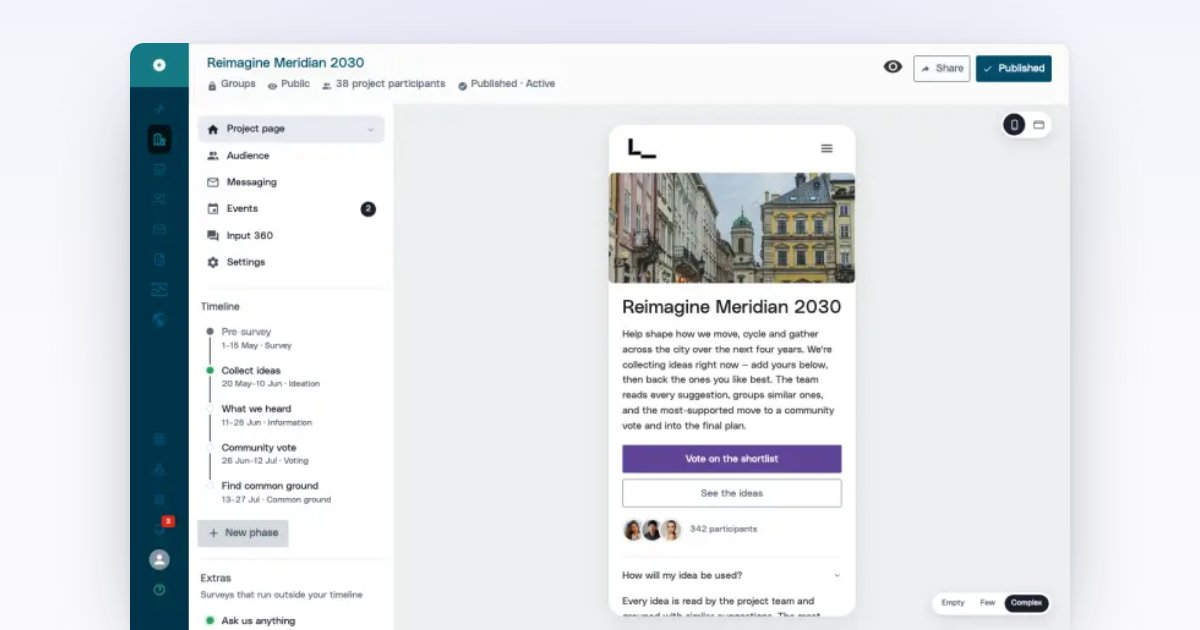
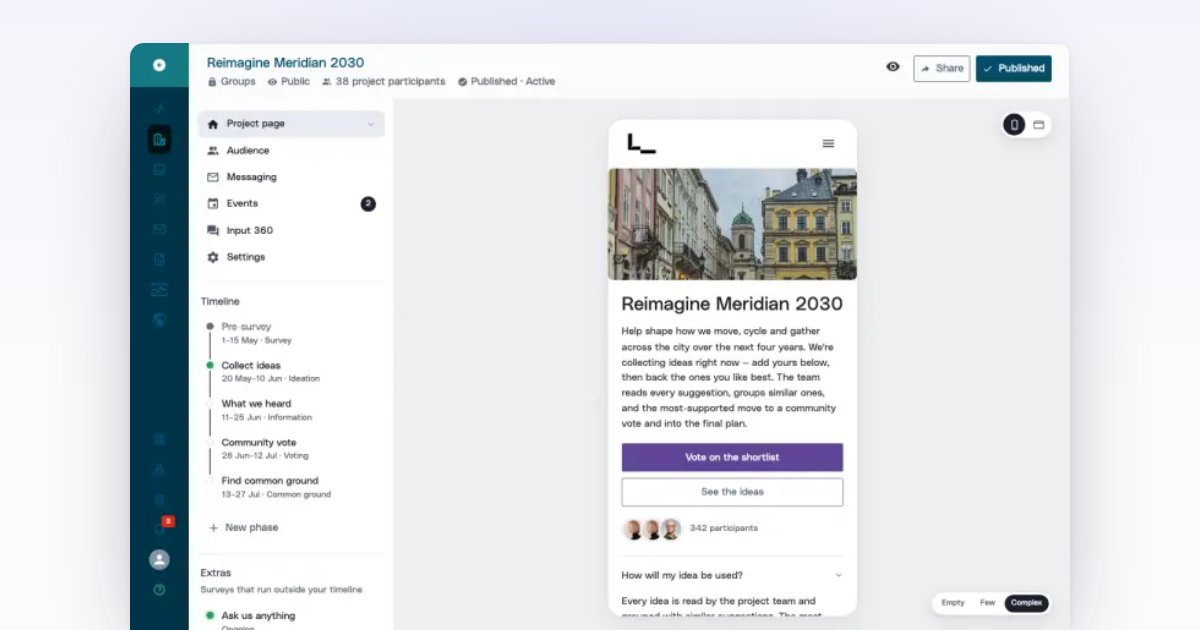
editor-builder-v3: muted New phase/New survey buttons in Few & Complex too
Match the empty state — every sidebar New phase / New survey button now uses the
quiet/transparent muted treatment across all content states.

diff --git a/parallel-participation/prototypes/parallel-editor-builder-v3/index.html b/parallel-participation/prototypes/parallel-editor-builder-v3/index.html
@@ -2060,7 +2060,7 @@
               </div>
             </div>
           </div>
-          <button class="sec-add" onclick="setView('add-phase')">
+          <button class="sec-add muted" onclick="setView('add-phase')">
             <span class="sec-add-ic" data-gv-icon="plus" aria-hidden="true"></span>
             New phase
           </button>
@@ -4050,7 +4050,7 @@
   }
   function renderComplexExtras(n) {
     const head = `<hr class="panel-divider" /><div class="sec-head">Extras</div><div class="sec-sub">Surveys that run outside your timeline</div>`;
-    const add = `<button class="sec-add" onclick="setView('add-survey')"><svg class="nav-icon" viewBox="0 0 24 24"><line x1="12" y1="5" x2="12" y2="19"/><line x1="5" y1="12" x2="19" y2="12"/></svg>New survey</button>`;
+    const add = `<button class="sec-add muted" onclick="setView('add-survey')"><svg class="nav-icon" viewBox="0 0 24 24"><line x1="12" y1="5" x2="12" y2="19"/><line x1="5" y1="12" x2="19" y2="12"/></svg>New survey</button>`;
     const askus  = hsRow({ phase:'askus',  dot:'live',     name:'Ask us anything',     dates:'Ongoing' });
     const market = hsRow({ phase:'',        dot:'upcoming', name:'Market-day poll',      dates:'15–17 Aug' });
     const kiosk  = hsRow({ phase:'',        dot:'completed',name:'Pop-up kiosk survey',  dates:'2–4 May', past:true });
@@ -4247,7 +4247,7 @@
             </div>
           </div>
         </div>
-        <button class="sec-add" onclick="setView('add-phase')">
+        <button class="sec-add muted" onclick="setView('add-phase')">
           <svg class="nav-icon" viewBox="0 0 24 24"><line x1="12" y1="5" x2="12" y2="19"/><line x1="5" y1="12" x2="19" y2="12"/></svg>
           New phase
         </button>
@@ -4264,7 +4264,7 @@
             <div class="phase-dates">Ongoing</div>
           </div>
         </div>
-        <button class="sec-add" onclick="setView('add-survey')">
+        <button class="sec-add muted" onclick="setView('add-survey')">
           <svg class="nav-icon" viewBox="0 0 24 24"><line x1="12" y1="5" x2="12" y2="19"/><line x1="5" y1="12" x2="19" y2="12"/></svg>
           New survey
         </button>
@@ -4292,7 +4292,7 @@
             <div class="flex-1 min-w-0"><div class="phase-name">Find common ground</div>
               <div class="phase-dates">13–27 Jul · Common ground</div></div></div>
         </div>
-        <button class="sec-add" onclick="setView('add-phase')">
+        <button class="sec-add muted" onclick="setView('add-phase')">
           <svg class="nav-icon" viewBox="0 0 24 24"><line x1="12" y1="5" x2="12" y2="19"/><line x1="5" y1="12" x2="19" y2="12"/></svg>
           New phase
         </button>
